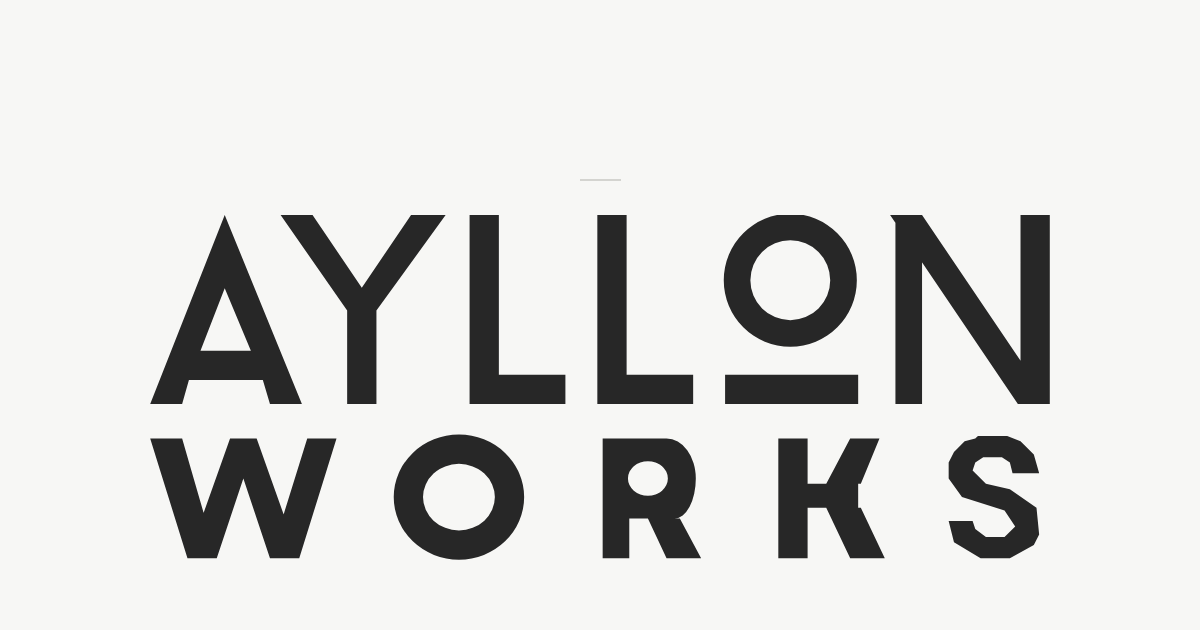
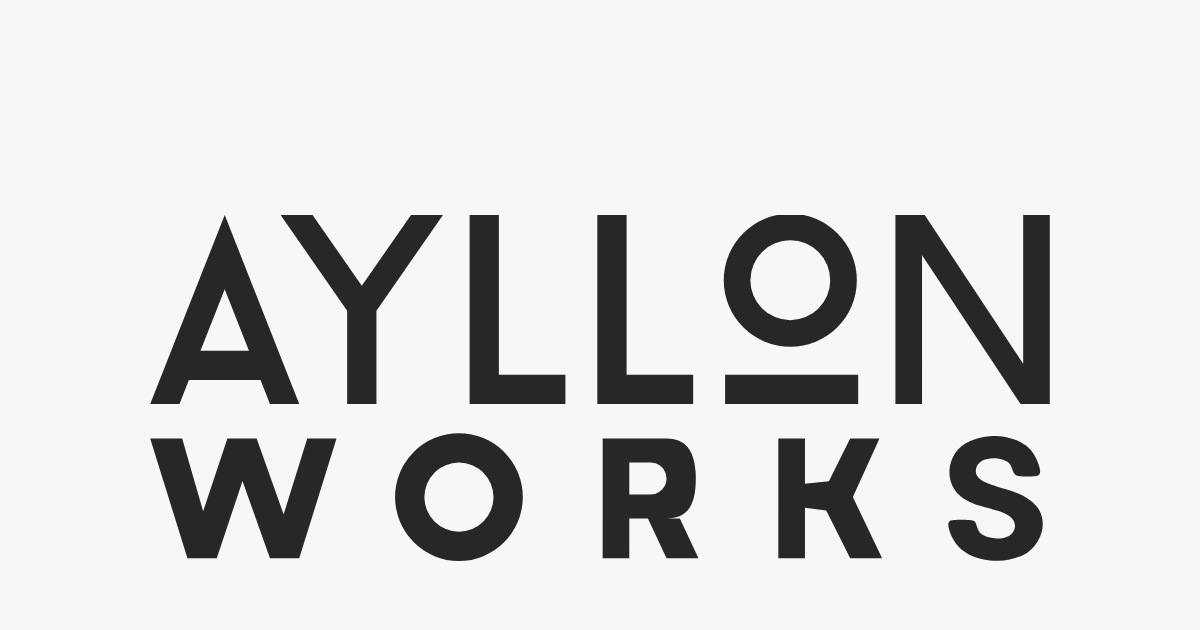
Refine Ayllon Works wordmark letterforms.
Smooth the S into a clean cubic outline, correct the N diagonal and stems, rebuild the K join, and even out Y arm thickness so the logo stays faithful to the original while reading as a professional wordmark.

diff --git a/index.html b/index.html
@@ -81,17 +81,17 @@
       <div class="brand">
         <svg xmlns="http://www.w3.org/2000/svg" class="logo-svg" viewBox="81 187 338 130" fill="none" role="img" aria-labelledby="logo-title" focusable="false">
     <title id="logo-title">Ayllon Works</title>
-    <path fill-rule="evenodd" fill="currentColor" d="M109.00,187.00 L138.00,258.00 L126.00,258.00 L123.32,249.00 L95.55,249.00 L93.00,258.00 L81.00,258.00 z M109.00,214.50 L118.83,238.00 L99.89,238.00 z"/>
-    <path fill-rule="nonzero" fill="currentColor" d="M130.00,187.00 L142.00,187.00 L160.50,214.30 L179.00,187.00 L192.00,187.00 L166.00,222.90 L166.00,258.00 L155.00,258.00 L155.00,222.90 z"/>
-    <path fill-rule="nonzero" fill="currentColor" d="M201.00,187.00 h11.00 V247.00 H237.00 V258.00 H201.00 z"/>
-    <path fill-rule="nonzero" fill="currentColor" d="M249.00,187.00 h11.00 V247.00 H285.00 V258.00 H249.00 z"/>
-    <path fill-rule="evenodd" fill="currentColor" d="M321.50,186.50 A25.00,25.00 0 1 1 321.50,236.50 A25.00,25.00 0 1 1 321.50,186.50 z M321.50,196.50 A15.00,15.00 0 1 0 321.50,226.50 A15.00,15.00 0 1 0 321.50,196.50 z M297.00,247.00 h50.00 v11.00 h-50.00 z"/>
-    <path fill-rule="nonzero" fill="currentColor" d="M361.00,187.00 h10.00 v71.00 h-10.00 z M408.00,187.00 h11.00 v71.00 h-11.00 z M359.00,187.00 L371.00,187.00 L419.00,258.00 L407.00,258.00 z"/>
-    <path fill-rule="nonzero" fill="currentColor" d="M81.00,271.00 L93.00,271.00 L106.00,316.00 L95.00,316.00 z M111.00,271.00 L121.00,271.00 L106.00,316.00 L95.00,316.00 z M111.00,271.00 L121.00,271.00 L137.00,316.00 L126.00,316.00 z M140.00,271.00 L151.00,271.00 L137.00,316.00 L126.00,316.00 z"/>
-    <path fill-rule="evenodd" fill="currentColor" d="M197.00,269.50 A24.50,23.50 0 1 1 197.00,316.50 A24.50,23.50 0 1 1 197.00,269.50 z M197.00,280.50 A13.50,12.50 0 1 0 197.00,305.50 A13.50,12.50 0 1 0 197.00,280.50 z"/>
-    <path fill-rule="evenodd" fill="currentColor" d="M251.00,271.00 h10.00 v45.00 h-10.00 z M261.00,271.00 H275.00 A11.00,15.00 0 0 1 286.00,286.00 A8.00,15.00 0 0 1 278.00,301.00 H261.00 z M268.00,279.50 A7.50,6.50 0 1 1 268.00,292.50 A7.50,6.50 0 1 1 268.00,279.50 z M268.00,301.00 L280.00,301.00 L288.00,316.00 L275.00,316.00 z"/>
-    <path fill-rule="nonzero" fill="currentColor" d="M317.00,271.00 h11.00 v45.00 h-11.00 z M344.00,271.00 L355.00,271.00 L348.00,288.00 L335.00,288.00 z M328.00,288.00 h19.00 v9.00 h-19.00 z M335.00,297.00 L348.00,297.00 L357.00,316.00 L344.00,316.00 z"/>
-    <path fill-rule="nonzero" fill="currentColor" d="M392,270 L403,270 L408,272 L413,277 L415,284 L405,284 L404,280 L401,278 L394,278 L391,280 L390,283 L395,288 L404,290 L414,297 L415,307 L413,311 L404,316 L393,316 L383,310 L381,302 L390,302 L391,305 L395,308 L402,308 L406,304 L402,298 L386,293 L381,286 L381,280 L383,276 L387,272 L391,271 z"/>
+    <path fill-rule="evenodd" fill="currentColor" d="M109.00,187.00L137.00,258.00L126.00,258.00L122.45,249.00L95.55,249.00L92.00,258.00L81.00,258.00zM109.00,214.89L118.11,238.00L99.89,238.00z"/>
+    <path fill-rule="nonzero" fill="currentColor" d="M130.00,187.00L142.00,187.00L160.50,213.60L179.00,187.00L191.00,187.00L166.00,223.00L166.00,258.00L155.00,258.00L155.00,223.00z"/>
+    <path fill-rule="nonzero" fill="currentColor" d="M201.00,187.00h11.00V247.00H237.00V258.00H201.00z"/>
+    <path fill-rule="nonzero" fill="currentColor" d="M249.00,187.00h11.00V247.00H285.00V258.00H249.00z"/>
+    <path fill-rule="evenodd" fill="currentColor" d="M321.50,186.50A25.00,25.00 0 1 1 321.50,236.50A25.00,25.00 0 1 1 321.50,186.50zM321.50,196.50A15.00,15.00 0 1 0 321.50,226.50A15.00,15.00 0 1 0 321.50,196.50z M297.00,247.00h50.00v11.00h-50.00z"/>
+    <path fill-rule="nonzero" fill="currentColor" d="M361.00,187.00h10.00v71.00h-10.00z M409.00,187.00h10.00v71.00h-10.00z M361.00,187.00L372.00,187.00L419.00,258.00L408.00,258.00z"/>
+    <path fill-rule="nonzero" fill="currentColor" d="M81.00,271.00L93.00,271.00L106.00,316.00L95.00,316.00zM110.00,271.00L121.00,271.00L106.00,316.00L95.00,316.00zM110.00,271.00L121.00,271.00L137.00,316.00L126.00,316.00zM140.00,271.00L151.00,271.00L137.00,316.00L126.00,316.00z"/>
+    <path fill-rule="evenodd" fill="currentColor" d="M197.00,269.00A24.00,24.00 0 1 1 197.00,317.00A24.00,24.00 0 1 1 197.00,269.00zM197.00,280.00A13.00,13.00 0 1 0 197.00,306.00A13.00,13.00 0 1 0 197.00,280.00z"/>
+    <path fill-rule="evenodd" fill="currentColor" d="M251.00,271.00h10.00v45.00h-10.00z M261.00,271.00H275.00C282.50,271.00 286.00,276.00 286.00,286.00C286.00,296.00 283.00,301.00 275.00,301.00H261.00z M261.00,280.00H269.00A6.00,6.00 0 0 1 269.00,292.00H261.00z M268.00,301.00L280.00,301.00L287.00,316.00L275.00,316.00z"/>
+    <path fill-rule="nonzero" fill="currentColor" d="M317.00,271.00h10.00v45.00h-10.00z M344.00,271.00L355.00,271.00L345.00,293.00L356.00,316.00L344.00,316.00L335.00,298.00L327.00,297.00L327.00,288.00L336.00,287.00z"/>
+    <path fill-rule="nonzero" fill="currentColor" d="M 397.52,270.06 C 394.56,270.12 391.84,270.81 389.12,271.87 C 381.92,274.66 378.87,284.03 383.44,290.52 C 387.04,295.63 394.37,296.50 399.81,298.25 C 402.36,299.08 406.28,300.84 405.90,304.18 C 405.27,309.74 395.99,309.36 392.87,306.50 C 391.61,305.34 391.63,302.81 390.58,302.00 C 389.75,301.37 382.28,301.33 381.44,301.93 C 379.81,303.09 382.13,307.72 382.79,308.96 C 385.88,314.82 393.33,317.13 399.61,316.94 C 402.58,316.85 405.28,316.20 408.03,315.20 C 415.08,312.62 419.29,302.57 413.92,296.32 C 409.95,291.70 404.24,290.61 398.71,288.88 C 396.01,288.03 390.91,286.63 391.21,282.92 C 391.64,277.55 400.46,277.44 403.63,280.15 C 404.98,281.30 404.93,284.35 406.49,284.91 C 407.80,285.38 413.29,285.46 414.56,284.88 C 416.73,283.90 413.88,278.37 413.12,277.04 C 410.19,271.91 403.10,269.94 397.52,270.06 Z"/>
 </svg>
       </div>
       <hr class="rule">
